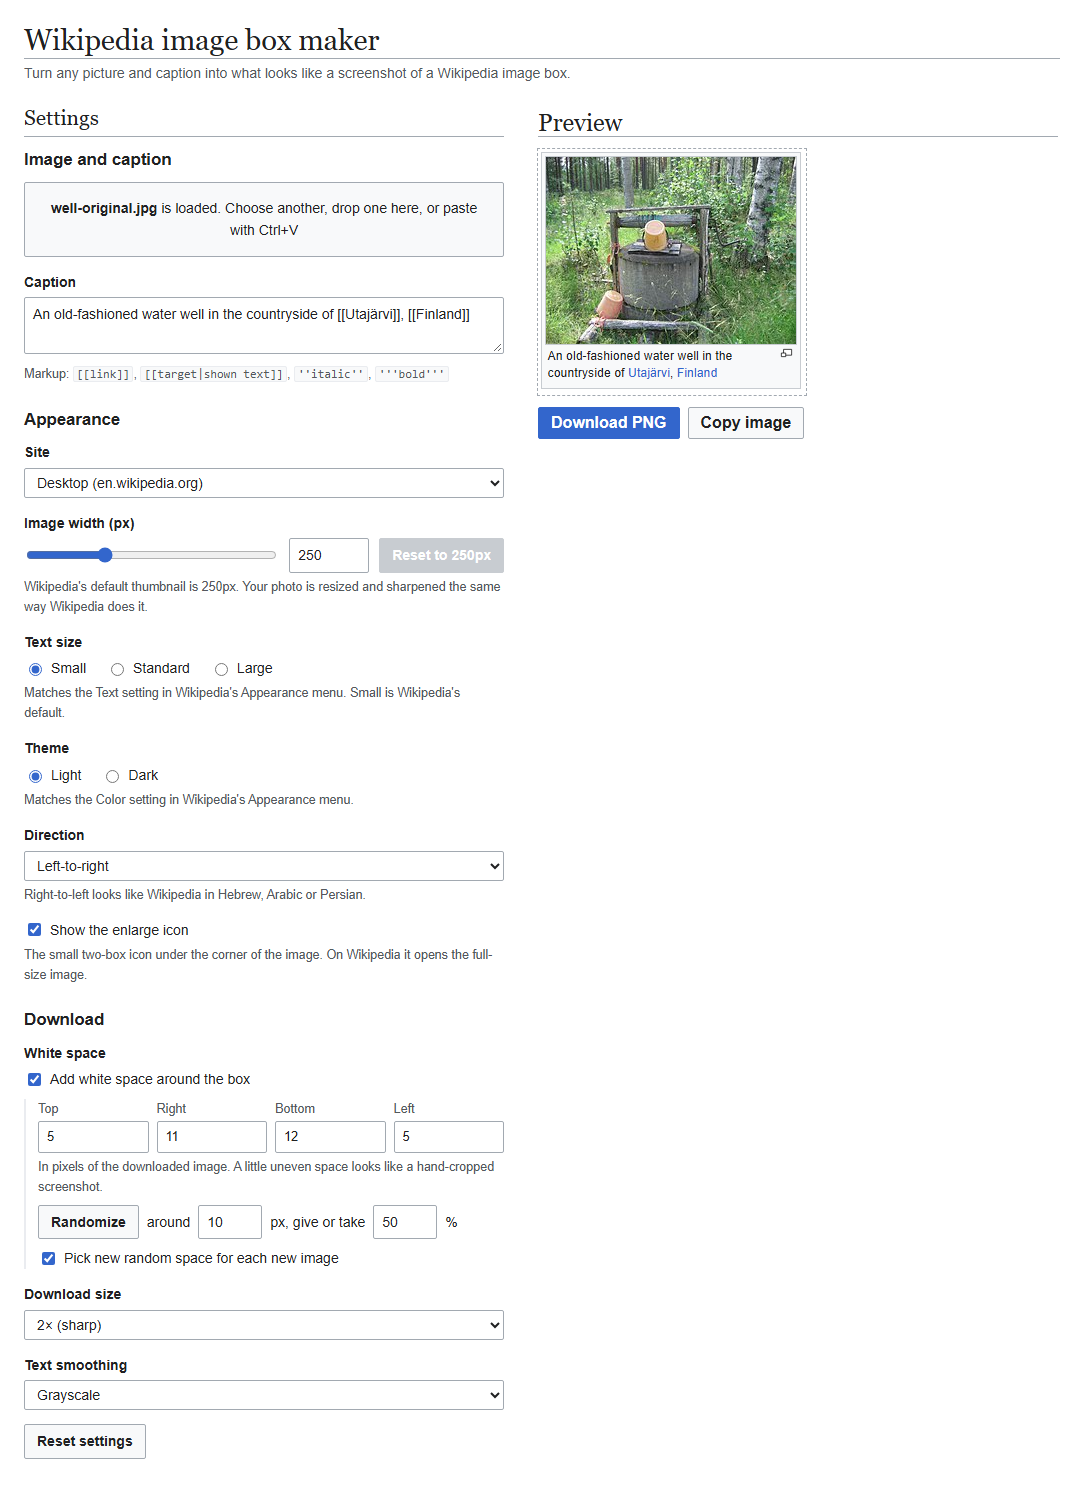
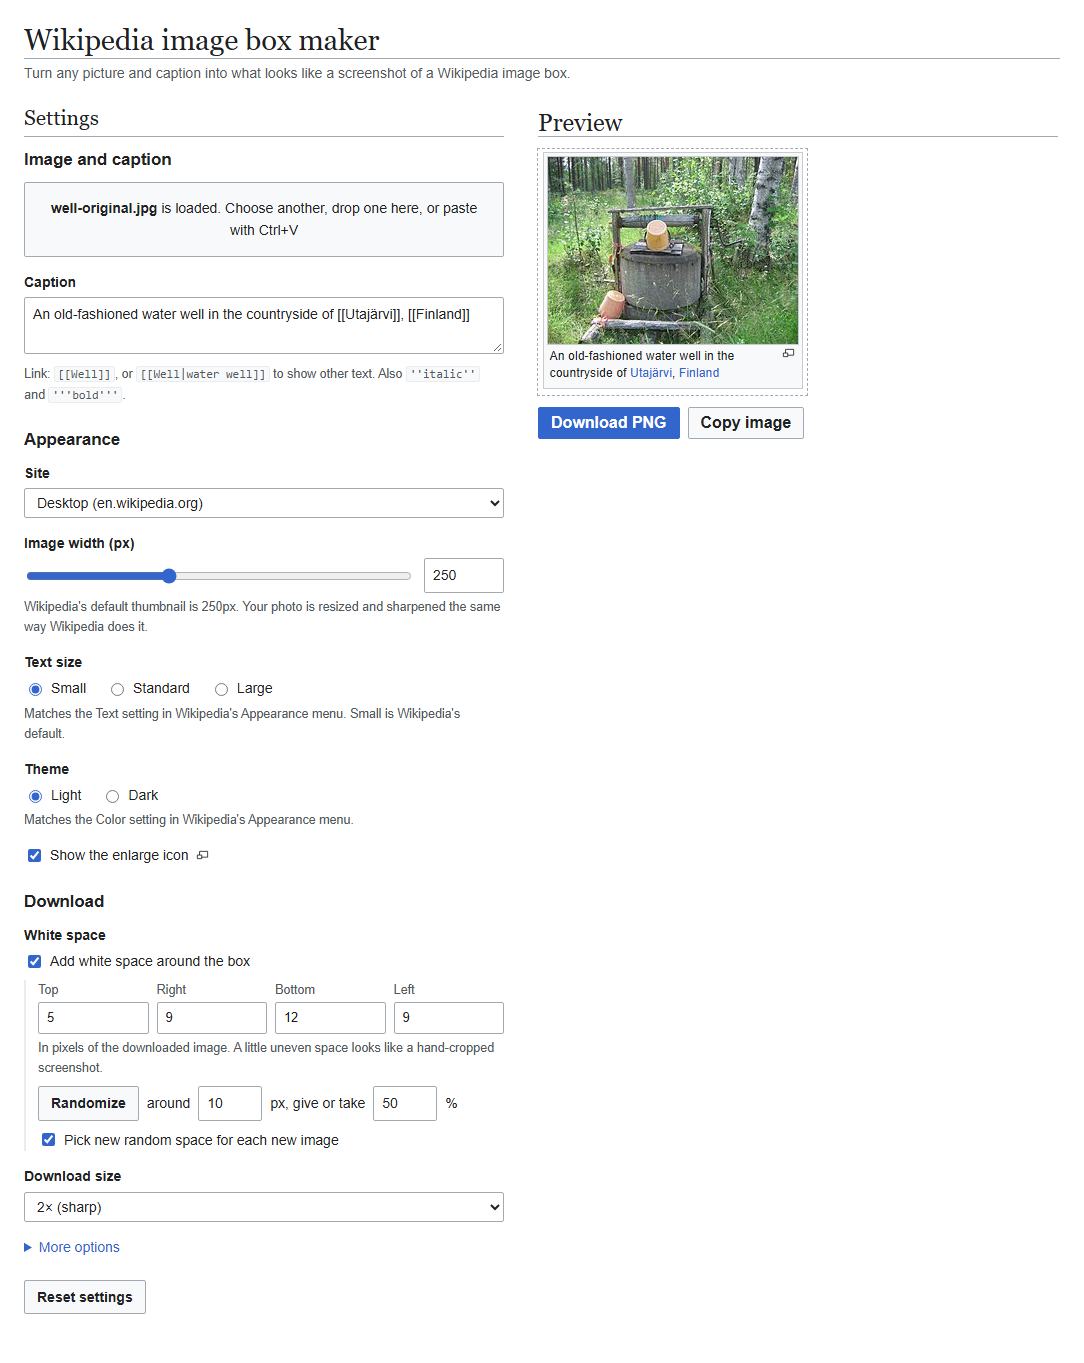
Open the file chooser from the empty preview, keep the caption on reset, move Direction into more options, save only changed settings, and make the width reset a link

Changed region(s): [[0.0, 0.0, 0.7611, 0.9861]]

diff --git a/app.js b/app.js
@@ -135,7 +135,7 @@ function thumbImage(width, height, { src, srcset }) {
 function placeholder(width, height) {
   const span = document.createElement('span');
   span.className = 'thumb-image placeholder';
-  span.textContent = 'No image yet';
+  span.textContent = touchScreen ? 'Tap to choose an image' : 'Choose an image, drop one here, or paste with Ctrl+V';
   span.style.width = width + 'px';
   span.style.height = height + 'px';
   return span;
@@ -171,7 +171,8 @@ function render() {
   ui.shot.classList.toggle('night', ui.theme.value === 'night');
   ui.page.dir = ui.direction.value;
   renderImage(width, imageHeight(source, width));
-  ui.widthReset.disabled = width === Number(ui.width.defaultValue);
+  // Hidden without display: none, so the text below does not move while the slider is dragged.
+  ui.widthReset.style.visibility = width === Number(ui.width.defaultValue) ? 'hidden' : '';
   ui.thumb.classList.toggle('no-icon', !ui.showIcon.checked);
   ui.thumbCaption.replaceChildren(parseCaption(ui.caption.value));
   ui.whiteSpaceOptions.hidden = !ui.whiteSpace.checked;
@@ -386,6 +387,7 @@ async function loadFile(file) {
 }
 
 ui.drop.addEventListener('click', () => ui.file.click());
+ui.thumbLink.addEventListener('click', () => { if (!source) ui.file.click(); });
 ui.drop.addEventListener('keydown', e => {
   if (e.key === 'Enter' || e.key === ' ') {
     e.preventDefault();
@@ -437,6 +439,8 @@ ui.widthReset.addEventListener('click', () => {
   render();
   scheduleThumbnails();
   saveSettings();
+  // The link hides itself at 250px, so focus would be lost.
+  ui.widthRange.focus();
 });
 ui.randomize.addEventListener('click', randomizePadding);
 addEventListener('resize', fitPreview);
@@ -708,11 +712,28 @@ const SAVED_SETTINGS = [
   'padTop', 'padRight', 'padBottom', 'padLeft', 'padBase', 'padVariation', 'autoRandomize', 'scale', 'smoothing',
 ];
 
+// Version 1 saved every setting, including the ones still at their defaults.
+const SETTINGS_VERSION = 2;
+
+function valueOf(control) {
+  return control.type === 'checkbox' ? control.checked : control.value;
+}
+
+function defaultOf(control) {
+  if (control.type === 'checkbox') return control.defaultChecked;
+  if (control instanceof RadioNodeList) return [...control].find(radio => radio.defaultChecked)?.value ?? '';
+  // Like form.reset(), the last option marked selected wins.
+  if (control.tagName === 'SELECT') return ([...control.options].findLast(o => o.defaultSelected) ?? control.options[0]).value;
+  return control.defaultValue;
+}
+
+// Only values that differ from the defaults are saved, so a changed default reaches users who never set it.
 function saveSettings() {
-  const settings = Object.fromEntries(SAVED_SETTINGS.map(name => {
+  const settings = { version: SETTINGS_VERSION };
+  for (const name of SAVED_SETTINGS) {
     const control = settingsForm.elements[name];
-    return [name, control.type === 'checkbox' ? control.checked : control.value];
-  }));
+    if (valueOf(control) !== defaultOf(control)) settings[name] = valueOf(control);
+  }
   try {
     localStorage.setItem(SETTINGS_KEY, JSON.stringify(settings));
   } catch {}
@@ -733,16 +754,19 @@ function restoreSettings() {
     settings = JSON.parse(localStorage.getItem(SETTINGS_KEY));
   } catch {}
   if (settings && typeof settings === 'object') {
+    // Text smoothing's default changed after version 1, which saved the old default for everyone.
+    if (!settings.version) delete settings.smoothing;
     for (const name of SAVED_SETTINGS) restoreControl(settingsForm.elements[name], settings[name]);
   }
   ui.width.value = ui.widthRange.value = imageWidth();
 }
 
+// The caption is the user's content, not a setting, so it is kept.
 function resetSettings() {
+  const caption = ui.caption.value;
   settingsForm.reset();
-  try {
-    localStorage.removeItem(SETTINGS_KEY);
-  } catch {}
+  ui.caption.value = caption;
+  saveSettings();
   randomizePadding();
   scheduleThumbnails();
 }
@@ -757,8 +781,9 @@ ui.reset.addEventListener('click', resetSettings);
 if (touchScreen) ui.drop.replaceChildren(bold('Tap to choose an image'));
 // Where the browser can draw sub-pixel text, real screenshots from the same computer usually have it too.
 if (subpixelTextSupported()) ui.smoothing.querySelector('[value=subpixel]').defaultSelected = true;
-else ui.smoothing.closest('.more').hidden = true;
+else ui.smoothing.closest('.field').hidden = true;
 restoreSettings();
+ui.direction.closest('.more').open = ui.direction.value !== defaultOf(ui.direction);
 if (ui.autoRandomize.checked) randomizePadding();
 else render();
 showStatus('');

diff --git a/index.html b/index.html
@@ -6,7 +6,7 @@
 <title>Wikipedia Image Box Maker</title>
 <!-- GitHub Pages lets browsers reuse these files for 10 minutes without checking for a new version, so a page
      from a new deploy can get the previous app.js. Change ?v= in all three whenever any of them changes. -->
-<link rel="stylesheet" href="style.css?v=5">
+<link rel="stylesheet" href="style.css?v=6">
 </head>
 <body>
 <main>
@@ -56,9 +56,8 @@
         <div class="row">
           <input type="range" id="widthRange" min="50" max="600" value="250" aria-labelledby="widthLabel">
           <input type="number" id="width" min="50" max="600" value="250">
-          <button class="btn" id="widthReset" type="button">Reset to 250px</button>
         </div>
-        <p class="hint">Wikipedia's default thumbnail is 250px. Your photo is resized and sharpened the same way Wikipedia does it.</p>
+        <p class="hint">Wikipedia's default thumbnail is 250px. Your photo is resized and sharpened the same way Wikipedia does it. <button class="link-button" id="widthReset" type="button">Reset to 250px</button></p>
       </div>
 
       <fieldset class="field">
@@ -80,19 +79,7 @@
         <p class="hint">Matches the Color setting in Wikipedia's Appearance menu.</p>
       </fieldset>
 
-      <div class="field">
-        <label class="field-title" for="direction">Direction</label>
-        <select id="direction">
-          <option value="ltr" selected>Left-to-right</option>
-          <option value="rtl">Right-to-left</option>
-        </select>
-        <p class="hint">Right-to-left looks like Wikipedia in Hebrew, Arabic or Persian.</p>
-      </div>
-
-      <div class="field">
-        <label class="check"><input type="checkbox" id="showIcon" checked> Show the enlarge icon</label>
-        <p class="hint">The small two-box icon under the corner of the image. On Wikipedia it opens the full-size image.</p>
-      </div>
+      <label class="check"><input type="checkbox" id="showIcon" checked> Show the enlarge icon <span class="enlarge-sample" aria-hidden="true"></span></label>
 
       <h3>Download</h3>
       <fieldset class="field">
@@ -128,12 +115,22 @@
       </div>
 
       <details class="field more">
-        <summary>More download options</summary>
-        <label class="field-title" for="smoothing">Text smoothing</label>
-        <select id="smoothing">
-          <option value="grayscale" selected>Grayscale</option>
-          <option value="subpixel">Sub-pixel (like Windows screenshots)</option>
-        </select>
+        <summary>More options</summary>
+        <div class="field">
+          <label class="field-title" for="direction">Direction</label>
+          <select id="direction">
+            <option value="ltr" selected>Left-to-right</option>
+            <option value="rtl">Right-to-left</option>
+          </select>
+          <p class="hint">Right-to-left looks like Wikipedia in Hebrew, Arabic or Persian.</p>
+        </div>
+        <div class="field">
+          <label class="field-title" for="smoothing">Text smoothing</label>
+          <select id="smoothing">
+            <option value="grayscale" selected>Grayscale</option>
+            <option value="subpixel">Sub-pixel (like Windows screenshots)</option>
+          </select>
+        </div>
       </details>
 
       <button class="btn" id="resetSettings" type="button">Reset settings</button>
@@ -158,7 +155,7 @@
     </section>
   </div>
 </main>
-<script src="thumbnail.js?v=5"></script>
-<script src="app.js?v=5"></script>
+<script src="thumbnail.js?v=6"></script>
+<script src="app.js?v=6"></script>
 </body>
 </html>

diff --git a/style.css b/style.css
@@ -38,12 +38,15 @@ input:focus, textarea:focus, select:focus { outline: none; border-color: var(--l
 .row { display: flex; gap: 10px; align-items: center; }
 .row input[type=range] { flex: 1; min-width: 0; accent-color: var(--link); }
 .row input[type=number] { width: 80px; }
-.row .btn { white-space: nowrap; }
 .hint { color: var(--muted); font-size: 12.5px; margin: 4px 0 0; }
 code { background: var(--bg-subtle); border: 1px solid #eaecf0; border-radius: 2px; padding: 0 3px; font-size: 12px; }
 .check { display: flex; gap: 6px; align-items: center; margin: 0 0 14px; }
 .check input { accent-color: var(--link); }
 .more summary { color: var(--link); cursor: pointer; margin-bottom: 8px; }
+.more > .field:last-child { margin-bottom: 0; }
+.link-button { font: inherit; color: var(--link); background: none; border: 0; padding: 0; cursor: pointer; }
+.link-button:hover { text-decoration: underline; }
+.enlarge-sample { display: inline-block; width: 15px; height: 11px; background-image: var(--enlarge-icon-ltr); }
 .choices { display: flex; flex-wrap: wrap; gap: 4px 20px; }
 .choices .check { margin: 0; }
 .field > .check:has(+ .hint) { margin-bottom: 0; }
@@ -181,4 +184,7 @@ fieldset .check { margin-bottom: 8px; }
 /* The mobile site's Night theme keeps the dimmed photo but gives captions its subtle grey. */
 .night .mobile .thumb-caption { color: #a2a9b1; }
 
-.placeholder { display: inline-grid; place-items: center; color: #72777d; font-size: 13px; line-height: 1.4; }
+.placeholder {
+  display: inline-grid; place-items: center; color: #72777d; font-size: 13px; line-height: 1.4;
+  text-align: center; overflow-wrap: anywhere; overflow: hidden; cursor: pointer;
+}

diff --git a/docs/README.md b/docs/README.md
@@ -31,7 +31,7 @@ this tool, with the same photo and caption.
 Transparent areas of an image show white, as on Wikipedia.
 
 The browser keeps the settings and the caption for your next visit. It does not keep the image. To go back to the
-default settings, click "Reset settings".
+default settings, click "Reset settings". The caption does not change.
 
 ### Caption markup
 
